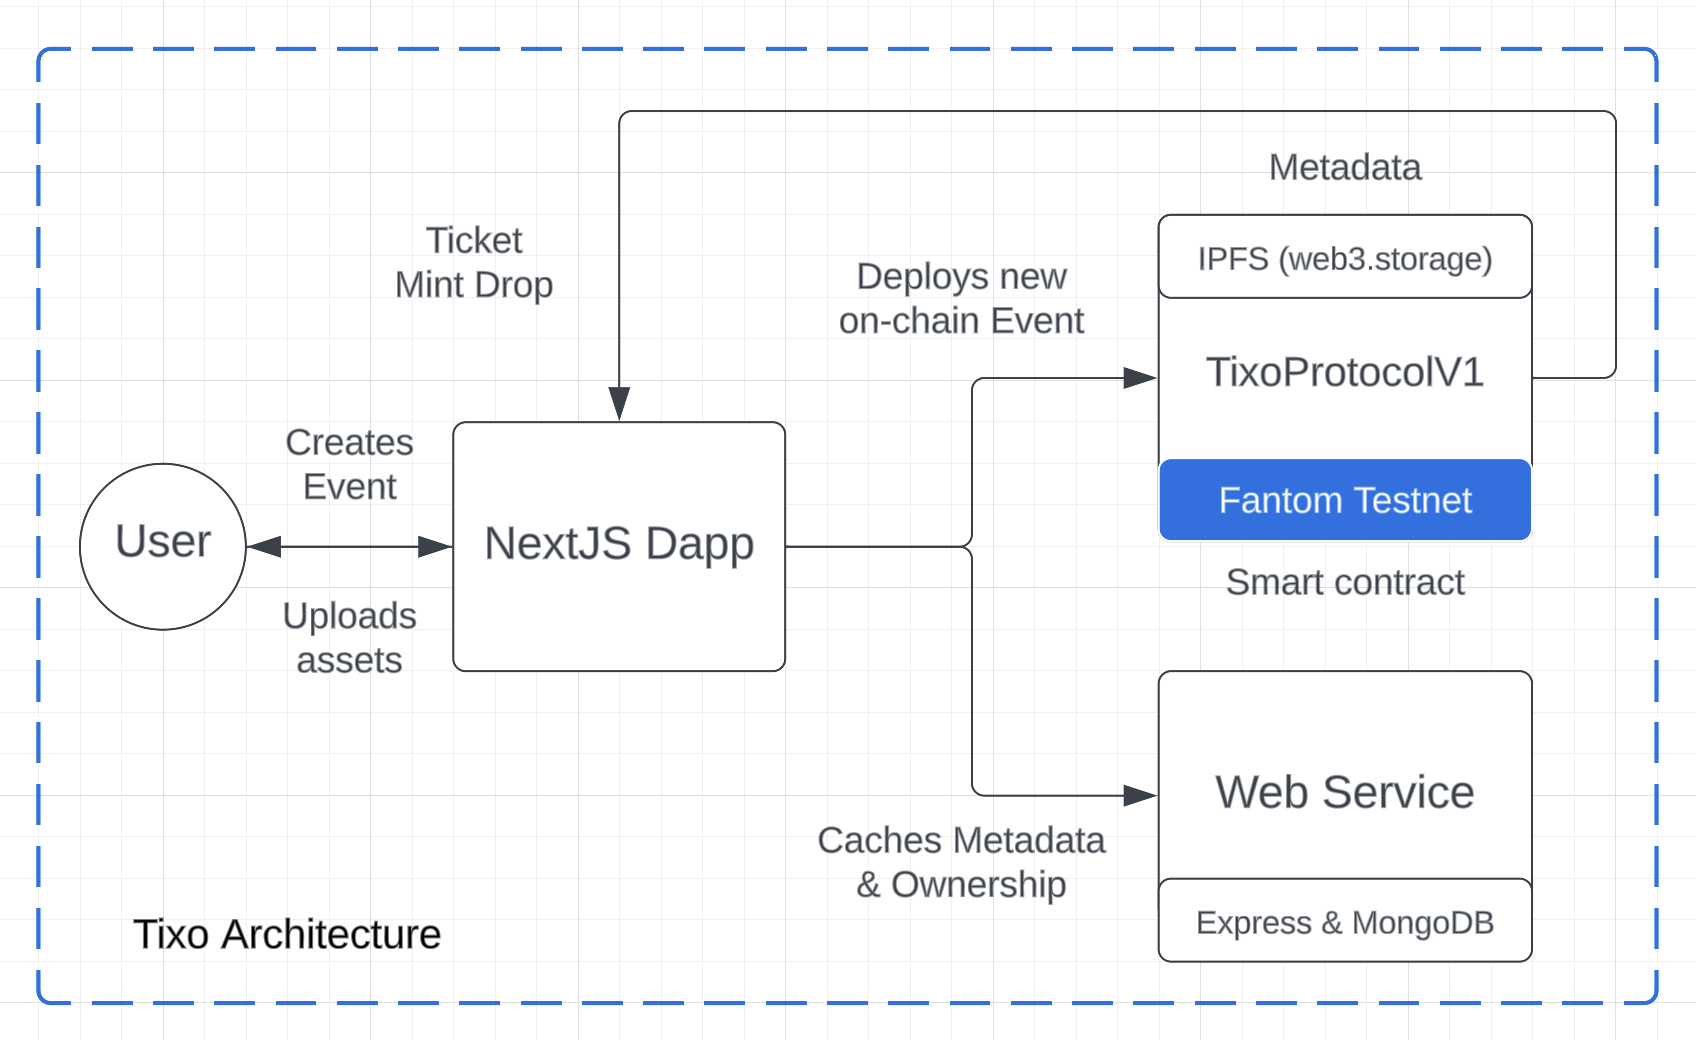
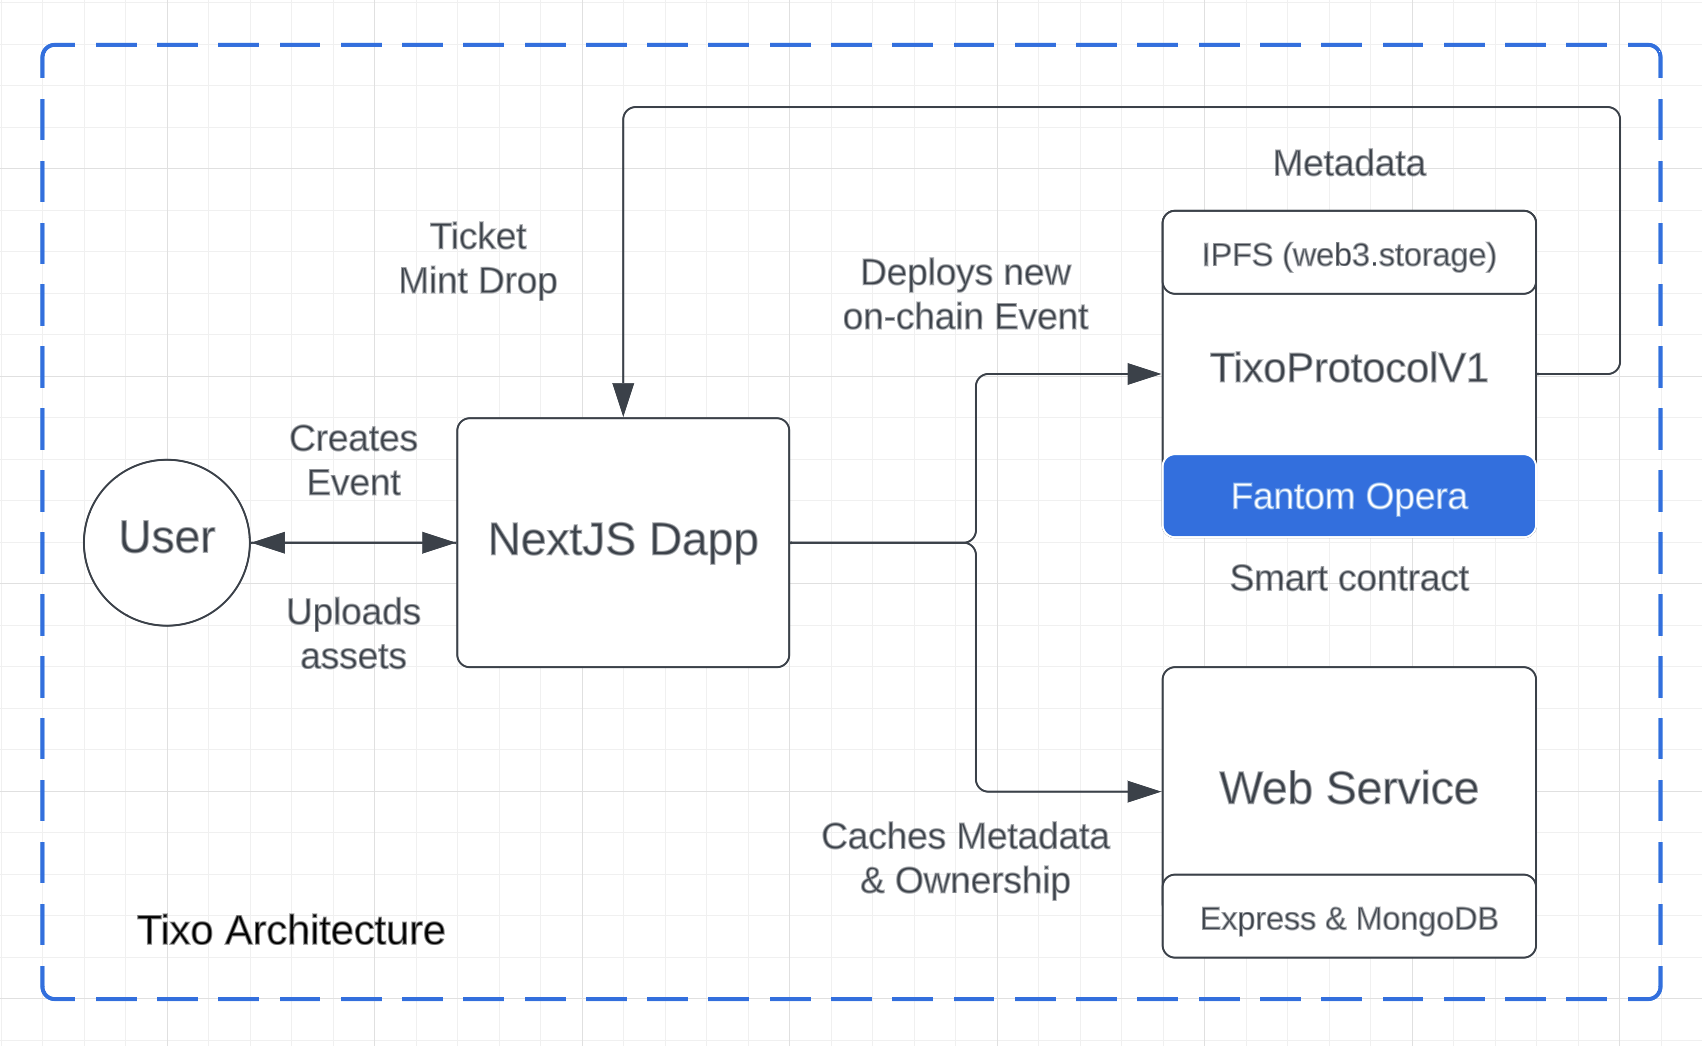
update readme

diff --git a/contracts/hardhat.config.js b/contracts/hardhat.config.js
@@ -2,29 +2,36 @@ require("@nomicfoundation/hardhat-toolbox");
 require("@nomiclabs/hardhat-etherscan");
 require("dotenv").config();
 
-const { PRIVATE_KEY, EXPLORER_API_KEY, TIXO_ADDRESS } = process.env;
+const { PRIVATE_KEY, EXPLORER_API_KEY, TIXO_ADDRESS, FTMSCAN_API_KEY } =
+  process.env;
 
 task("etherscan-verify", "Verifies on etherscan", async (taskArgs, hre) => {
   console.log("Verifying contract on etherscan...");
   await hre.run("verify:verify", {
-    address: TIXO_ADDRESS,
-    network: taskArgs["network"],
+    address: "0x98410A5f20dFF3D35711ddE52a589dcc17285375",
+    network: "opera",
   });
 });
 
 /** @type import('hardhat/config').HardhatUserConfig */
 module.exports = {
   solidity: "0.8.17",
-  defaultNetwork: "ftmTestnet",
+  defaultNetwork: "fantom",
   networks: {
+    fantom: {
+      url: "https://rpc.ftm.tools",
+      accounts: [`0x${PRIVATE_KEY}`],
+      chainId: 250,
+    },
     ftmTestnet: {
       url: "https://rpc.testnet.fantom.network/",
-      accounts: [process.env.PRIVATE_KEY],
+      accounts: [`0x${PRIVATE_KEY}`],
       chainId: 4002,
     },
   },
   etherscan: {
     apiKey: {
+      opera: FTMSCAN_API_KEY,
       ftmTestnet: FTMSCAN_API_KEY,
     },
   },

diff --git a/README.md b/README.md
@@ -1,6 +1,6 @@
 # TIXO: Next-Generation Ticketing powered by Fantom Blockchain
 
-This project was built for the Fantom Hackathon Q2 2023.
+This project was built for the Fantom Hackathon Q2 2023. View our demo video here: [https://vimeo.com/841980447](https://vimeo.com/841980447)
 
 ![](/app/public/landing.png)
 
